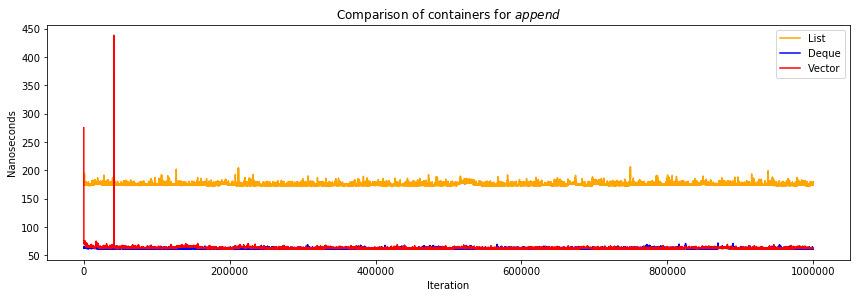
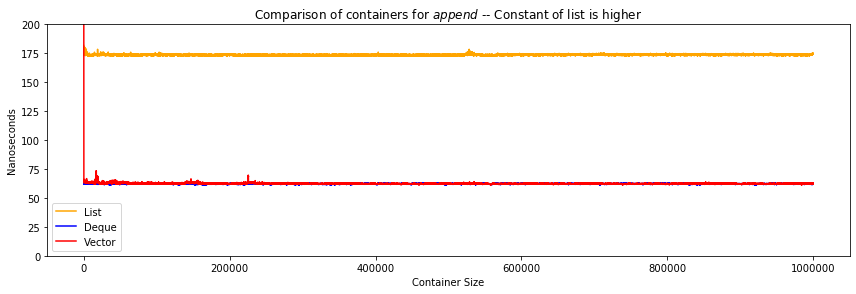
PS3-containers minor figure updates

diff --git a/PS3/containers/visualizer.py b/PS3/containers/visualizer.py
@@ -6,7 +6,7 @@ import pandas as pd
 
 def preprocess_data(container, func):
     times = np.loadtxt(f'./measurements/{container}_{func}.txt')
-    avg = np.mean(times, axis=0)
+    avg = np.median(times, axis=0)
     return pd.Series(avg).rolling(10).median()
 
 
@@ -18,7 +18,7 @@ deque = preprocess_data('deque', func)
 vector = preprocess_data('vector', func)
 
 fig, ax1 = plt.subplots(figsize=(12, 4))
-ax1.set_xlabel('Iteration')
+ax1.set_xlabel('Container Size')
 ax1.set_ylabel('Nanoseconds - List & Deque')
 ax1.plot(list(range(len(lst))), lst, color='orange', label='List')
 ax1.plot(list(range(len(deque))), deque, color='blue', label='Deque')
@@ -30,7 +30,7 @@ ax2.plot(list(range(len(vector))), vector, color='red', label='Vector')
 fig.tight_layout()
 ax2.legend()
 ax1.legend(loc='center left')
-plt.title(f'Comparison of containers for ${func}$')
+plt.title(f'Comparison of containers for ${func}$ -- Vector is not a suitable choice')
 plt.savefig(f'./figures/{func}', bbox_inches='tight')
 plt.show()
 #%%
@@ -41,15 +41,16 @@ deque = preprocess_data('deque', func)
 vector = preprocess_data('vector', func)
 
 plt.figure(figsize=(12, 4))
-plt.xlabel('Iteration')
+plt.xlabel('Container Size')
 plt.ylabel('Nanoseconds')
+plt.ylim(0, 200)
 plt.plot(list(range(len(lst))), lst, color='orange', label='List')
 plt.plot(list(range(len(deque))), deque, color='blue', label='Deque')
 plt.plot(list(range(len(vector))), vector, color='red', label='Vector')
 
 plt.tight_layout()
 plt.legend()
-plt.title(f'Comparison of containers for ${func}$')
+plt.title(f'Comparison of containers for ${func}$ -- Constant of list is higher')
 plt.savefig(f'./figures/{func}', bbox_inches='tight')
 plt.show()
 #%%
@@ -58,12 +59,13 @@ func = 'middle'
 lst = preprocess_data('list', func)
 deque = preprocess_data('deque', func)
 vector = preprocess_data('vector', func)
-
+#%%
 fig, ax1 = plt.subplots(figsize=(12, 4))
-ax1.set_xlabel('Iteration')
+ax1.set_xlabel('Container Size')
 ax1.set_ylabel('Nanoseconds - List & Vector')
 ax1.plot(list(range(len(lst))), lst, color='orange', label='List')
 ax1.plot(list(range(len(vector))), vector, color='red', label='Vector')
+ax1.set_ylim(0, 75000)
 
 ax2 = ax1.twinx()
 ax2.set_ylabel('Nanoseconds - Deque')
@@ -71,7 +73,7 @@ ax2.plot(list(range(len(deque))), deque, color='blue', label='Deque')
 
 fig.tight_layout()
 ax2.legend(loc='center left')
-ax1.legend()
-plt.title(f'Comparison of containers for ${func}$ insertion')
+ax1.legend(loc='upper left')
+plt.title(f'Comparison of containers for ${func}$ insertion -- List is the way to go')
 plt.savefig(f'./figures/{func}', bbox_inches='tight')
 plt.show()
